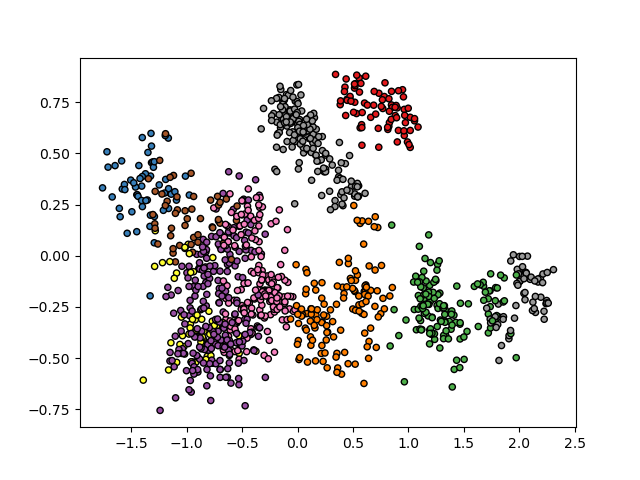
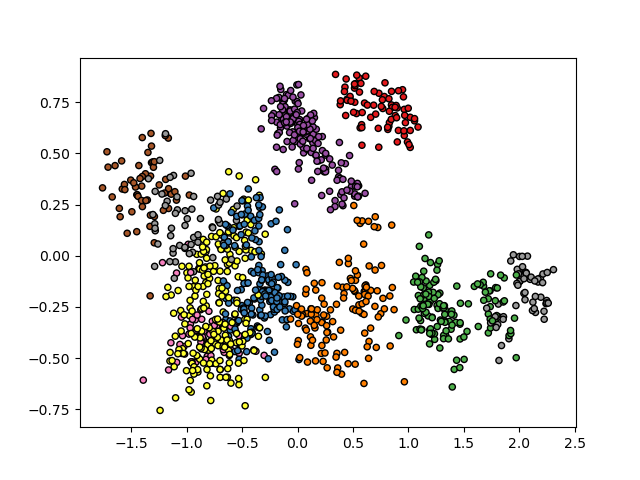
done e8

diff --git a/e8/weather_city.py b/e8/weather_city.py
@@ -33,3 +33,7 @@ print("score: ", score)
 # predict based on trained model
 predictions = mlp_model.predict(x_unlabelled_scaled)
 pd.Series(predictions).to_csv(sys.argv[3], index=False, header=False)
+
+# check for wrong prediction
+df = pd.DataFrame({'truth': y_valid, 'prediction': mlp_model.predict(X_valid)})
+#print(df[df['truth'] != df['prediction']])
